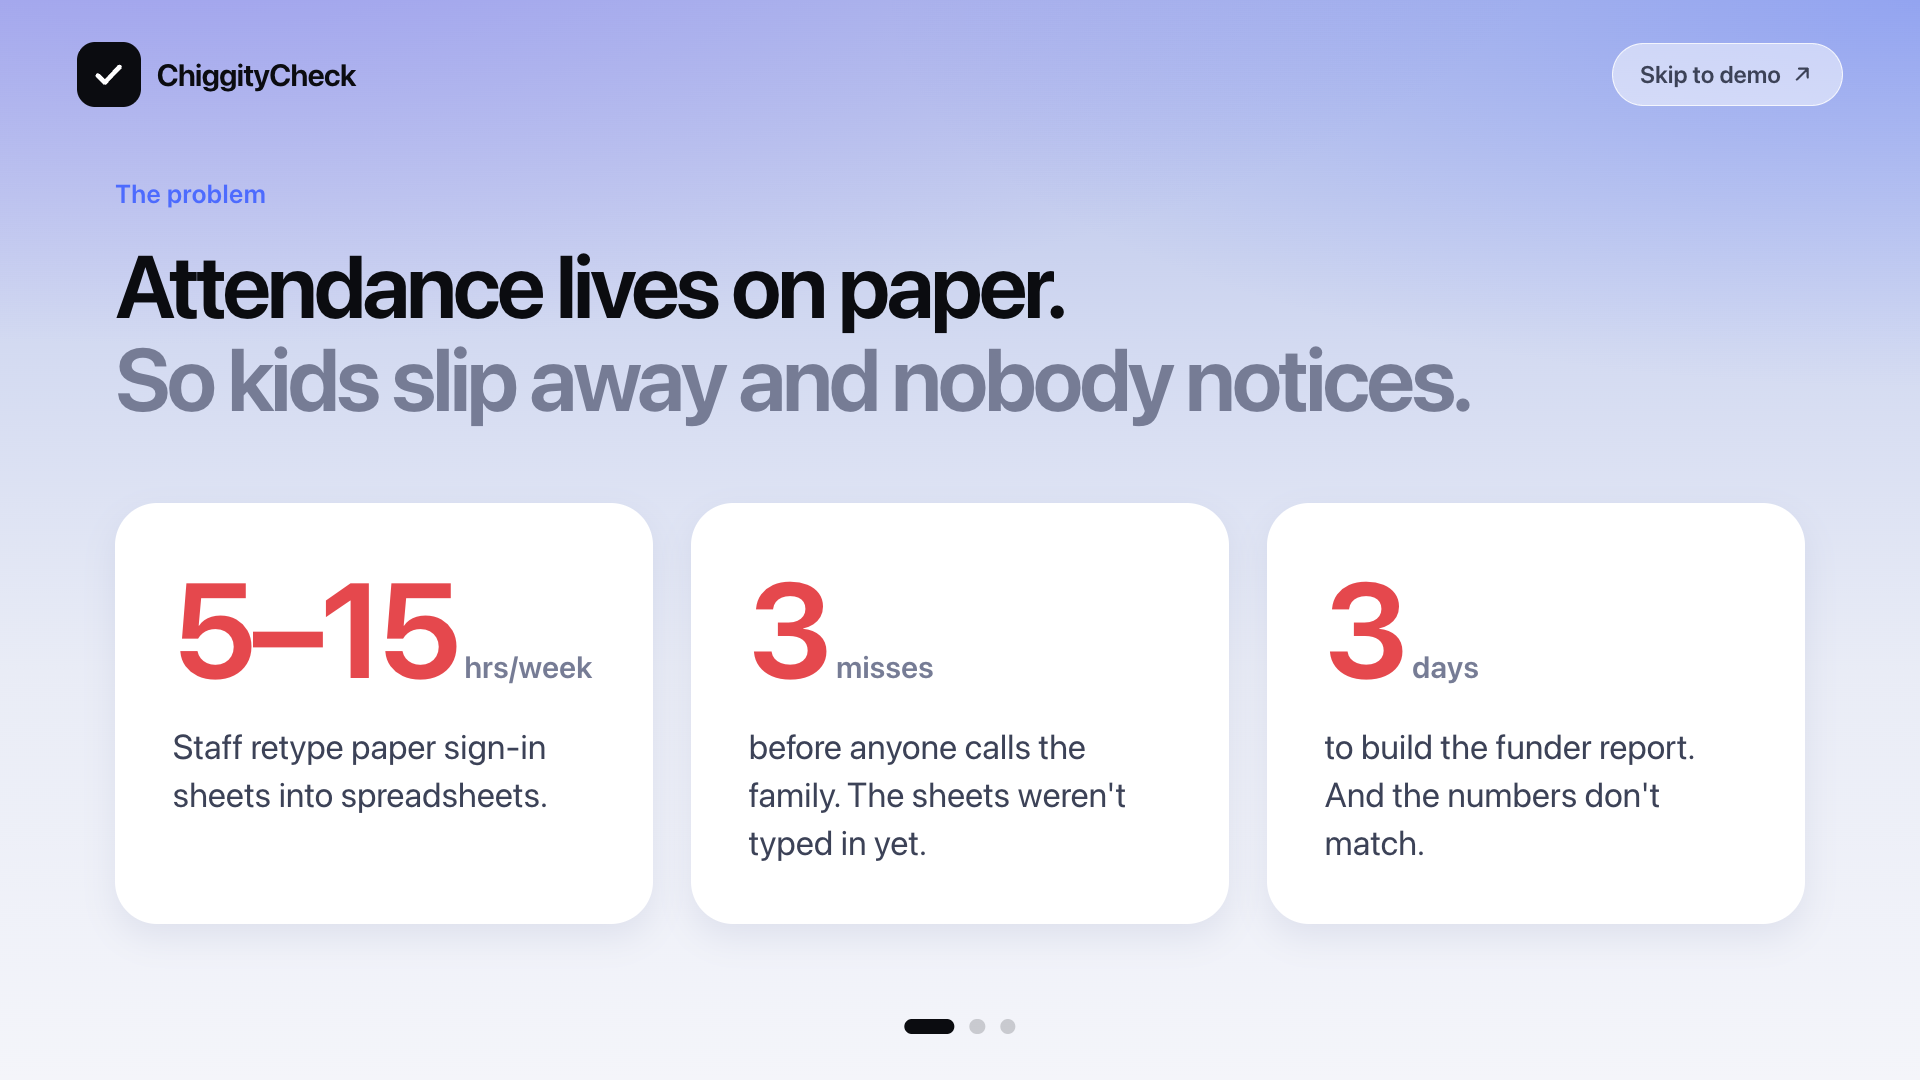
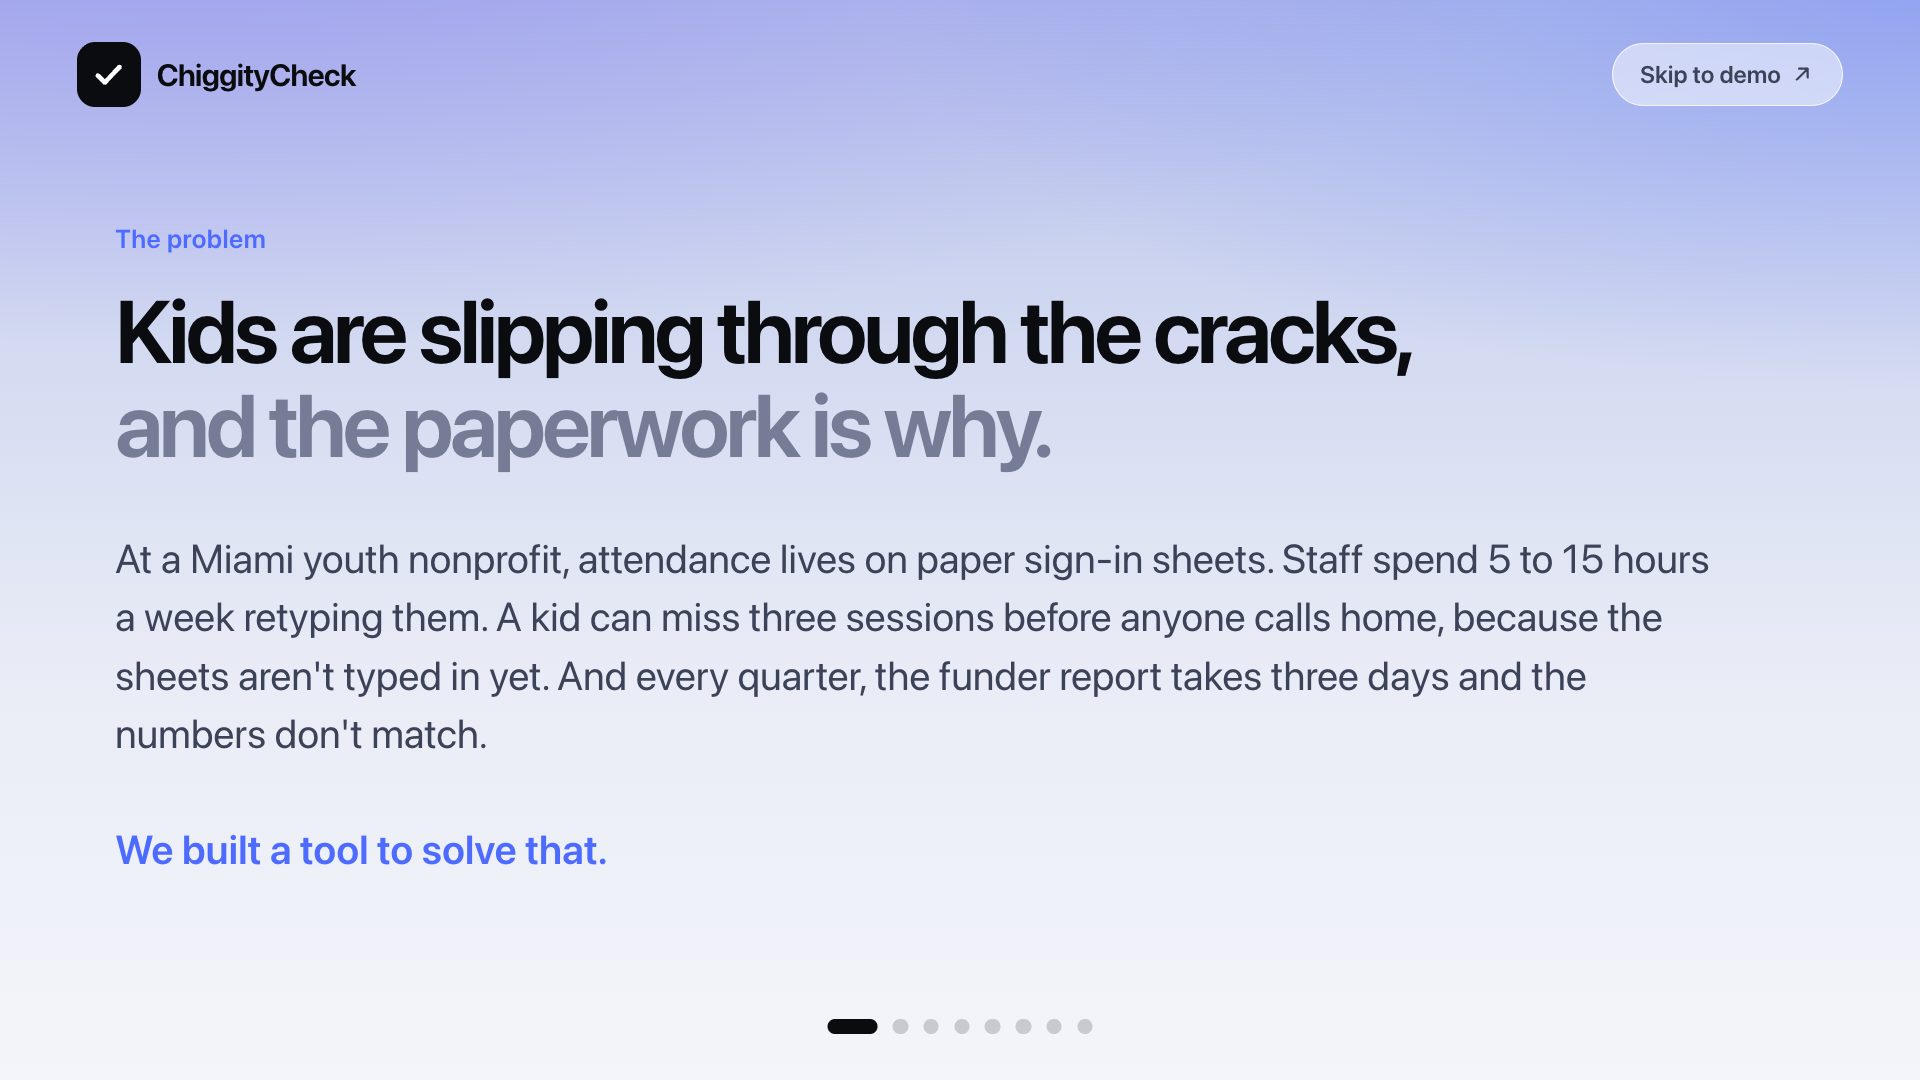
v0.9.0: 8-slide stage deck: problem story, animated explainer, one slide per feature with real desktop screenshots, live demo

diff --git a/src/pages/Stage.tsx b/src/pages/Stage.tsx
@@ -1,6 +1,6 @@
 import { useCallback, useEffect, useState, type ReactNode } from 'react'
 import { Link, useNavigate } from 'react-router'
-import { Icon } from '../components/ui'
+import { Icon, type IconName } from '../components/ui'
 import Explainer from '../components/Explainer'
 
 /* Stage explainer: landscape slides for the presenter. → / Space / PageDown / click = next, ← / PageUp = back, F = full screen, D = demo. */
@@ -11,7 +11,7 @@ const Mark = ({ size = 1 }: { size?: number }) => (
   </span>
 )
 
-function Pain({ n, unit, text }: { n: string; unit: string; text: string }) {
+export function Pain({ n, unit, text }: { n: string; unit: string; text: string }) {
   return (
     <div className="stg-pain">
       <div className="stg-pain-n">{n}<span>{unit}</span></div>
@@ -21,18 +21,29 @@ function Pain({ n, unit, text }: { n: string; unit: string; text: string }) {
 }
 
 type Ctx = { active: boolean; mobile: boolean }
+const Shot = ({ src, alt, top }: { src: string; alt: string; top?: boolean }) => (
+  <div className={`stg-shot${top ? ' top' : ''}`}><img src={src} alt={alt} /></div>
+)
+const Feature = ({ eyebrow, title, bullets, shot, alt, top }: { eyebrow: string; title: ReactNode; bullets: [IconName, ReactNode][]; shot: string; alt: string; top?: boolean }) => (
+  <div className="stg-feat">
+    <div>
+      <p className="stg-eyebrow">{eyebrow}</p>
+      <h2 className="stg-h1 sm">{title}</h2>
+      <ul className="stg-list fix">{bullets.map(([ic, t], i) => <li key={i}><Icon name={ic} /><span>{t}</span></li>)}</ul>
+    </div>
+    <Shot src={shot} alt={alt} top={top} />
+  </div>
+)
+
 const SLIDES: { key: string; render: (go: (to: string) => void, ctx: Ctx) => ReactNode }[] = [
   {
     key: 'problem',
     render: () => (
       <div className="stg-wrap">
         <p className="stg-eyebrow">The problem</p>
-        <h2 className="stg-h1">Attendance lives on paper.<br /><span className="muted">So kids slip away and nobody notices.</span></h2>
-        <div className="stg-pains three">
-          <Pain n="5–15" unit="hrs/week" text="Staff retype paper sign-in sheets into spreadsheets." />
-          <Pain n="3" unit="misses" text="before anyone calls the family. The sheets weren't typed in yet." />
-          <Pain n="3" unit="days" text="to build the funder report. And the numbers don't match." />
-        </div>
+        <h2 className="stg-h1">Kids are slipping through the cracks,<br /><span className="muted">and the paperwork is why.</span></h2>
+        <p className="stg-lede big">At a Miami youth nonprofit, attendance lives on paper sign-in sheets. Staff spend 5 to 15 hours a week retyping them. A kid can miss three sessions before anyone calls home, because the sheets aren't typed in yet. And every quarter, the funder report takes three days and the numbers don't match.</p>
+        <p className="stg-lede big blue strong">We built a tool to solve that.</p>
       </div>
     ),
   },
@@ -41,7 +52,7 @@ const SLIDES: { key: string; render: (go: (to: string) => void, ctx: Ctx) => Rea
     render: (_go, ctx) => (
       <div className="xp-slide">
         <div>
-          <p className="stg-eyebrow">What ChiggityCheck does</p>
+          <p className="stg-eyebrow">Meet ChiggityCheck</p>
           <h2 className="stg-h1 sm">Take a photo of the sign-in sheet. <span className="blue">It does the rest.</span></h2>
         </div>
         <Explainer active={ctx.active} still={ctx.mobile} />
@@ -49,17 +60,67 @@ const SLIDES: { key: string; render: (go: (to: string) => void, ctx: Ctx) => Rea
     ),
   },
   {
+    key: 'snap',
+    render: () => (
+      <Feature eyebrow="1 · Snap" title={<>It reads the handwriting<br /><span className="blue">and knows who's who.</span></>} shot="/stage/snap.png" alt="Sheet review screen" top
+        bullets={[
+          ['cam', <><b>One photo.</b> Every name and check mark read in about 12 seconds.</>],
+          ['merge', <><b>Each spelling matched</b> to the right kid with a probability. "Dariel Rmz" is Dariel Ramírez, 99%. Learned forever.</>],
+          ['q', <><b>It only asks when it must.</b> A kid it has never seen, or a half-finished check mark.</>],
+        ]} />
+    ),
+  },
+  {
+    key: 'calls',
+    render: () => (
+      <Feature eyebrow="2 · Nobody left behind" title={<>Who to call this week,<br /><span className="blue">with the message already written.</span></>} shot="/stage/calls.png" alt="Calls screen" top
+        bullets={[
+          ['phone', <><b>Flagged at the second miss.</b> Every kid's pattern is scored the moment a sheet is saved.</>],
+          ['msg', <><b>Written in the family's language</b> from the real facts: the dates, the mentor, the next session. Spanish, Haitian Creole or English.</>],
+          ['check', <><b>Sent on WhatsApp.</b> Delivered, read, and the reply lands on the kid's record.</>],
+        ]} />
+    ),
+  },
+  {
+    key: 'people',
+    render: () => (
+      <Feature eyebrow="3 · One record per person" title={<>Three spellings.<br /><span className="blue">One family.</span></>} shot="/stage/family.png" alt="Family page showing one family found in three places" top
+        bullets={[
+          ['people', <><b>The same mom</b> from a sign-up form, a sheet and a text message becomes one record, with every spelling kept.</>],
+          ['school', <><b>A kid changes schools</b> and keeps their history. Counted once in the report.</>],
+          ['pen', <><b>Edit anything</b> and the app shows you everything else that moved.</>],
+        ]} />
+    ),
+  },
+  {
+    key: 'report',
+    render: () => (
+      <Feature eyebrow="4 · Prove it" title={<>The funder report is done.<br /><span className="blue">Every number opens its photo.</span></>} shot="/stage/evidence.png" alt="Report with the evidence drawer open" top
+        bullets={[
+          ['doc', <><b>Always current.</b> Kids served, attendance, sessions, mentor matches, volunteer hours, follow-ups.</>],
+          ['sheet', <><b>Tap any number</b> and see the sheets and lines behind it, with the photo and the line highlighted.</>],
+          ['lock', <><b>Honest by design.</b> Duplicate hours removed, unclear marks left out, counseling shown as totals only.</>],
+        ]} />
+    ),
+  },
+  {
+    key: 'real',
+    render: () => (
+      <Feature eyebrow="5 · It's a real app" title={<>Live data.<br /><span className="blue">Nothing is faked.</span></>} shot="/stage/today.png" alt="Today dashboard" top
+        bullets={[
+          ['form', <><b>Public sign-up form</b> and spreadsheet import. Every submission is matched to existing families, so no duplicates.</>],
+          ['db', <><b>Describe a program in a sentence</b> and it creates the kids, sessions, sheets and calls in 20 seconds.</>],
+          ['plug', <><b>Connected tools:</b> WhatsApp, SMS, Google Sheets, Mailchimp, QuickBooks, calendar. Runs on Cloudflare at the edge.</>],
+        ]} />
+    ),
+  },
+  {
     key: 'how',
     render: (go) => (
       <div className="stg-demo">
         <div>
-          <p className="stg-eyebrow">How that fixes it</p>
-          <h2 className="stg-h1 sm">One photo replaces<br />all the retyping.</h2>
-          <ul className="stg-list fix">
-            <li><Icon name="check" /><span><b>No more retyping.</b> One photo per session instead of 40 minutes of typing.</span></li>
-            <li><Icon name="phone" /><span><b>No kid slips through.</b> Flagged at the 2nd miss, with the call message ready.</span></li>
-            <li><Icon name="doc" /><span><b>No report crunch.</b> The report fills itself as sheets come in.</span></li>
-          </ul>
+          <p className="stg-eyebrow">Live demo</p>
+          <h2 className="stg-h1 sm">No more retyping.<br />No kid slips through.<br /><span className="blue">No report crunch.</span></h2>
           <button className="stg-go" onClick={(e) => { e.stopPropagation(); go('/today') }}>
             <Icon name="cam" /> Start the demo
           </button>

diff --git a/src/styles.css b/src/styles.css
@@ -1002,3 +1002,14 @@ h1.ie{display:inline-flex}
   .rp-card,.rp-row,.rp-saving,.rp-to,.rp-bar,.rp-dot,.livedot,.badge.bump,.bd.bump,.seg a.glow,.pbar a.glow,.vflash,.stats4 div.vflash b,.pop,.cal button.just,.livebar span,.dest,.dq.count b,.savedflash,.composer .msg.justsaved{animation:none!important}
   .cal button{transition:none}
 }
+/* stage: feature slides with real desktop screenshots */
+.stg-lede.big{font-size:calc(var(--u)*2.1);max-width:calc(var(--u)*84);margin-top:calc(var(--u)*3)}
+.stg-lede.strong{font-weight:600;color:var(--blue)}
+.stg-feat{display:grid;grid-template-columns:minmax(0,.9fr) minmax(0,1.3fr);gap:calc(var(--u)*4);align-items:center;width:100%;max-width:calc(var(--u)*94)}
+.stg-shot{border-radius:calc(var(--u)*1.8);overflow:hidden;box-shadow:0 30px 70px rgba(30,40,90,.28);border:1px solid rgba(255,255,255,.6);background:#fff;aspect-ratio:16/11;}
+.stg-shot img{width:100%;height:100%;object-fit:cover;object-position:center top;display:block}
+@media (max-width:860px),(orientation:portrait) and (max-width:1100px){
+  .stg-lede.big{font-size:17px}
+  .stg-feat{grid-template-columns:1fr;gap:20px}
+  .stg-shot{aspect-ratio:16/10}
+}
